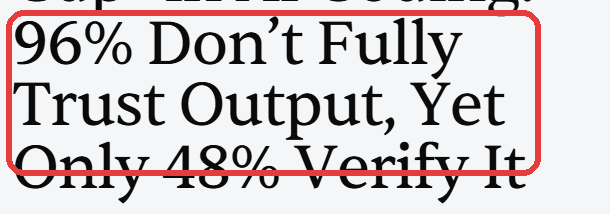
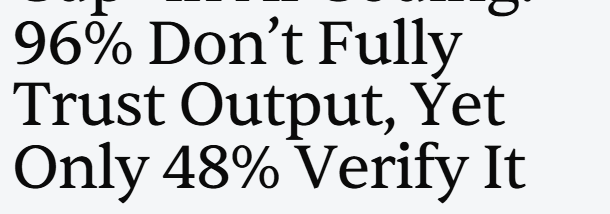
Shanghai keynote: drop Keynote label, animate patterns, challenges to appendix, uncircle Sonar
- Removes 'Keynote' from the title (talk format unconfirmed).
- The three patterns now reveal one per click, each with the green highlight as it lands.
- Moves the two challenge slides plus the ROI-reporting slide into an appendix and
  runs straight from the investing slides into Part 2; drops the now-redundant bridge.
- Removes the speaking-minute estimates from the section dividers.
- Un-circles the SonarSource clipping - the crop already isolates the 96%.

Claude-Session: https://claude.ai/code/session_015EiTevSf3fDLkzdeiZtdVP

Changed region(s): [[0.0, 0.028, 0.9033, 0.8411]]

diff --git a/2026/InnerSource Gathering Shanghai/slides/index.html b/2026/InnerSource Gathering Shanghai/slides/index.html
@@ -213,7 +213,7 @@
     <img class="brandchip" src="assets/img/isc-logo.png" alt="InnerSource Commons">
     <div class="title-wrap">
       <div class="title-main">
-        <div class="eyebrow">InnerSource Gathering Shanghai 2026 &middot; Keynote</div>
+        <div class="eyebrow">InnerSource Gathering Shanghai 2026</div>
         <h1>InnerSource in the <span class="accent">AI Era</span></h1>
         <p style="font-size:1.2em;color:var(--ink-2);margin-top:26px;font-weight:600;">A global update. And what comes next.</p>
         <div class="byline">
@@ -282,7 +282,7 @@ Here's where we're headed today, in two halves. First, a global update on where 
     <div class="divider">
       <div class="num">PART 1</div>
       <h1>The global update</h1>
-      <div class="meta">Executive Director's vantage &middot; ~6 minutes</div>
+      <div class="meta">Executive Director's vantage</div>
     </div>
     <aside class="notes">
 Let's start with where the movement stands.
@@ -393,15 +393,15 @@ Formal programs or program offices now exist at about a third of organizations, 
             <div><h3>Consolidation</h3><p style="font-size:0.8em;">Funded alongside a partner function - OSPO, DevEx, platform. Fund through a partner; keep the mandate <b>company-wide</b>.</p></div>
           </div>
         </div>
-        <div class="card">
+        <div class="card accent-edge fragment fade-in">
           <div style="display:grid;grid-template-columns:60px 1fr;gap:26px;align-items:center;">
-            <div style="font-size:1.7em;font-weight:900;color:var(--ink-3);">2</div>
+            <div style="font-size:1.7em;font-weight:900;color:var(--accent);">2</div>
             <div><h3>Scaffolding beats enthusiasm</h3><p style="font-size:0.8em;">Tooling, guidelines, governance - plus <b>manager, HR, and career-ladder support</b>, so contributing counts toward the job.</p></div>
           </div>
         </div>
-        <div class="card">
+        <div class="card accent-edge fragment fade-in">
           <div style="display:grid;grid-template-columns:60px 1fr;gap:26px;align-items:center;">
-            <div style="font-size:1.7em;font-weight:900;color:var(--ink-3);">3</div>
+            <div style="font-size:1.7em;font-weight:900;color:var(--accent);">3</div>
             <div><h3>The substrate for AI-native development</h3><p style="font-size:0.8em;">Shared prompts and context, internal AI tooling, code agents can find and reuse. <span class="accent">Hold onto this one.</span></p></div>
           </div>
         </div>
@@ -495,116 +495,6 @@ And the direction is toward getting back in the room together - the aim for 2027
     </aside>
   </section>
 
-  <!-- 12. CHALLENGE 1: TIME :: chart -->
-  <section>
-    <div class="stack">
-      <div class="kicker">Challenge 1 - the #1 blocker changed</div>
-      <h1 style="font-size:2.2em;margin-bottom:38px;">No longer culture. Now <span class="accent">time</span>.</h1>
-      <div class="grid wide-left" style="height:auto;">
-        <div class="barchart">
-          <div class="bar-row"><div class="cap">Time &amp; resources <span style="color:var(--accent);">now #1</span></div><div class="track"><div class="fill teal" style="width:84%;">84%</div></div></div>
-          <div class="bar-row"><div class="cap">Culture &amp; silos <span style="color:var(--ink-3);">was #1</span></div><div class="track"><div class="fill muted" style="width:74%;">74%</div></div></div>
-        </div>
-        <div class="tiles c3">
-          <div class="tile"><div class="v">22%</div><div class="l">give time to contribute</div></div>
-          <div class="tile"><div class="v">15%</div><div class="l">reward it</div></div>
-          <div class="tile"><div class="v">14%</div><div class="l">count it for promotion</div></div>
-        </div>
-      </div>
-      <p class="sub" style="margin-top:32px;font-size:1.0em;font-weight:600;">People are convinced. They just have no room to act on it.</p>
-    </div>
-    <div class="cite">Source: <a class="clink" href="https://innersourcecommons.org/learn/research/state-of-innersource-survey-2025/" target="_blank" rel="noopener">State of InnerSource 2024 &amp; 2025</a> - InnerSource Commons.</div>
-    <div class="foot"><span class="dot"></span> Part 1</div>
-    <aside class="notes">
-Two challenges to prepare for. The first is a real shift: the number-one blocker is no longer culture - it's time. For the first time, "lack of time and resources," at eighty-four percent, overtook culture and silo thinking, at seventy-four, as the top perceived blocker.
-
-And the supporting numbers are stark: only about twenty-two percent of organizations give employees time to contribute, about fifteen percent reward it, and about fourteen percent factor it into promotion. People are convinced. They just have no room to act on it.
-    </aside>
-  </section>
-
-  <!-- 13. CHALLENGE 2: ROI :: stats -->
-  <section>
-    <div class="grid wide-right">
-      <div class="stack">
-        <div class="kicker">Challenge 2 - ROI</div>
-        <p class="lede">The value is obvious. The <em>investment</em> isn't.</p>
-        <p class="sub" style="margin-top:22px;max-width:22ch;">Because it's hard to measure.</p>
-      </div>
-      <div class="stack">
-        <div class="tiles c2" style="margin-bottom:24px;">
-          <div class="tile"><div class="v red">under 50%</div><div class="l">of orgs measure InnerSource at all</div></div>
-          <div class="tile"><div class="v red">~1 in 7</div><div class="l">programs were ramping down last year</div></div>
-        </div>
-        <div class="card accent-edge">
-          <div class="n">The community is building the answer</div>
-          <p style="font-size:0.82em;color:var(--ink);"><b>de Silva &amp; Izquierdo</b> - <em>Measuring InnerSource Value</em> (MSR 2025). The ROI reference this challenge has been missing.</p>
-        </div>
-      </div>
-    </div>
-    <div class="cite">Source: <a class="clink" href="https://innersourcecommons.org/learn/research/state-of-innersource-survey-2025/" target="_blank" rel="noopener">State of InnerSource 2025</a> - InnerSource Commons; de Silva &amp; Izquierdo, <a class="clink" href="https://2025.msrconf.org/details/msr-2025-industry-track/2/Measuring-InnerSource-Value" target="_blank" rel="noopener">Measuring InnerSource Value</a> (MSR 2025).</div>
-    <div class="foot"><span class="dot"></span> Part 1</div>
-    <aside class="notes">
-The second challenge: the value is obvious, but the investment isn't - largely because it's hard to measure. Under fifty percent of organizations measure InnerSource at all, and the methods that exist are immature. Without a credible ROI story, programs stall - roughly one in seven were ramping down last year.
-
-And the community is building the answer: de Silva and Izquierdo have put real rigor into quantifying the business impact of InnerSource. If you need the ROI reference this challenge has been missing, that's it.
-    </aside>
-  </section>
-
-  <!-- 14. ROI - DIFFERENT BOXES :: diagram -->
-  <section>
-    <div class="stack">
-      <div class="kicker">Why the numbers hide it</div>
-      <h1 style="font-size:1.9em;max-width:24ch;margin-bottom:34px;">The cost and the payoff land in <span class="accent">different boxes</span>.</h1>
-      <div class="split">
-        <div class="sbox">
-          <div class="st">Different time period</div>
-          <h3>Invest now. Reap all year.</h3>
-          <div class="timeline">
-            <div class="q inv">Q1<br>invest</div>
-            <div class="q ret">Q2</div>
-            <div class="q ret">Q3</div>
-            <div class="q ret">Q4</div>
-          </div>
-          <p>You pay this quarter; the return dribbles in across the next year.</p>
-        </div>
-        <div class="sbox">
-          <div class="st">Different team</div>
-          <h3>You invest. Others reap.</h3>
-          <div class="flowrow">
-            <div class="tm pay">Your team<br>pays</div>
-            <div class="ar">&rarr;</div>
-            <div class="tm gain">Other teams<br>benefit</div>
-          </div>
-          <p>The team doing the work often isn't the one that gets the payoff.</p>
-        </div>
-      </div>
-      <div class="punch">Measured quarter-by-quarter, team-by-team, InnerSource never pencils out. So <b>reward and recognize contribution beyond the quarter, and beyond the team.</b></div>
-    </div>
-    <div class="cite">Source: Executive Director observation; supporting reward/recognition data in <a class="clink" href="https://innersourcecommons.org/learn/research/state-of-innersource-survey-2025/" target="_blank" rel="noopener">State of InnerSource 2025</a>.</div>
-    <div class="foot"><span class="dot"></span> Part 1</div>
-    <aside class="notes">
-And there's a deeper reason the investment lags - the way most organizations measure. The investment and the return live in different boxes.
-
-In time: you invest in InnerSource this quarter, but the return dribbles in across the whole next year. And in scope: the team that does the investing often isn't the team that reaps the benefit - another team does.
-
-Now, most places measure quarter by quarter, team by team. So as each team optimizes its own quarter, InnerSource can never quite make sense - the cost is yours, this quarter; the payoff is someone else's, later. The fix is to reward and recognize InnerSource contribution outside that traditional scope - beyond the quarter, and beyond the team.
-    </aside>
-  </section>
-
-  <!-- 15. BRIDGE :: compass -->
-  <section>
-    <div class="bg" style="background-image:url(assets/img/compass.jpg)"></div>
-    <div class="scrim center"></div>
-    <div class="stack" style="align-items:center;text-align:center;">
-      <h1 style="font-size:2.4em;max-width:18ch;text-align:center;">The patterns. The investments. The challenges.</h1>
-      <p style="font-size:1.3em;color:var(--ink-2);margin-top:34px;max-width:26ch;font-weight:600;">All now run into one question the whole community asks at once.</p>
-      <p style="font-size:1.9em;color:var(--accent);font-weight:900;margin-top:30px;">What does AI do to all of it?</p>
-    </div>
-    <aside class="notes">
-Every one of these - the patterns, the investments, the challenges - now runs into a single question the whole community is asking at once: what does AI do to all of it? That's the second half.
-    </aside>
-  </section>
-
   <!-- 16. PART 2 DIVIDER :: ai-abstract -->
   <section>
     <div class="bg" style="background-image:url(assets/img/ai-abstract.jpg)"></div>
@@ -612,7 +502,7 @@ Every one of these - the patterns, the investments, the challenges - now runs in
     <div class="divider">
       <div class="num">PART 2</div>
       <h1>How AI is reshaping InnerSource</h1>
-      <div class="meta">What I'm seeing across the community &middot; ~6 minutes</div>
+      <div class="meta">What I'm seeing across the community</div>
     </div>
     <aside class="notes">
 Let's turn to the second half of what I promised - what I'm actually seeing, across the community, as AI meets InnerSource in practice.
@@ -873,6 +763,116 @@ If you take two things from today, take these. First: InnerSource isn't obsolete
 Where to go next: the InnerSource Commons site, and the 2026 Summit on November twelfth - follow-the-sun, and your region opens the global day. Scan the code, and I'd love to see you there.
 
 Thank you again - to Jerry Tan, and to the entire InnerSource China Community. It's an honor to be part of what you're building here. Enjoy the rest of the Gathering.
+    </aside>
+  </section>
+
+  <!-- A1. APPENDIX DIVIDER :: clock -->
+  <section>
+    <div class="bg" style="background-image:url(assets/img/clock.jpg)"></div>
+    <div class="scrim center"></div>
+    <div class="divider">
+      <div class="num">APPENDIX</div>
+      <h1>Challenges to prepare for</h1>
+      <div class="meta">Reference slides, if needed</div>
+    </div>
+    <aside class="notes">
+Reference slides on the two big challenges - time and resources, and ROI - available if the conversation calls for them.
+    </aside>
+  </section>
+
+  <!-- 12. CHALLENGE 1: TIME :: chart -->
+  <section>
+    <div class="stack">
+      <div class="kicker">Challenge 1 - the #1 blocker changed</div>
+      <h1 style="font-size:2.2em;margin-bottom:38px;">No longer culture. Now <span class="accent">time</span>.</h1>
+      <div class="grid wide-left" style="height:auto;">
+        <div class="barchart">
+          <div class="bar-row"><div class="cap">Time &amp; resources <span style="color:var(--accent);">now #1</span></div><div class="track"><div class="fill teal" style="width:84%;">84%</div></div></div>
+          <div class="bar-row"><div class="cap">Culture &amp; silos <span style="color:var(--ink-3);">was #1</span></div><div class="track"><div class="fill muted" style="width:74%;">74%</div></div></div>
+        </div>
+        <div class="tiles c3">
+          <div class="tile"><div class="v">22%</div><div class="l">give time to contribute</div></div>
+          <div class="tile"><div class="v">15%</div><div class="l">reward it</div></div>
+          <div class="tile"><div class="v">14%</div><div class="l">count it for promotion</div></div>
+        </div>
+      </div>
+      <p class="sub" style="margin-top:32px;font-size:1.0em;font-weight:600;">People are convinced. They just have no room to act on it.</p>
+    </div>
+    <div class="cite">Source: <a class="clink" href="https://innersourcecommons.org/learn/research/state-of-innersource-survey-2025/" target="_blank" rel="noopener">State of InnerSource 2024 &amp; 2025</a> - InnerSource Commons.</div>
+    <div class="foot"><span class="dot"></span> Part 1</div>
+    <aside class="notes">
+Two challenges to prepare for. The first is a real shift: the number-one blocker is no longer culture - it's time. For the first time, "lack of time and resources," at eighty-four percent, overtook culture and silo thinking, at seventy-four, as the top perceived blocker.
+
+And the supporting numbers are stark: only about twenty-two percent of organizations give employees time to contribute, about fifteen percent reward it, and about fourteen percent factor it into promotion. People are convinced. They just have no room to act on it.
+    </aside>
+  </section>
+
+  <!-- 13. CHALLENGE 2: ROI :: stats -->
+  <section>
+    <div class="grid wide-right">
+      <div class="stack">
+        <div class="kicker">Challenge 2 - ROI</div>
+        <p class="lede">The value is obvious. The <em>investment</em> isn't.</p>
+        <p class="sub" style="margin-top:22px;max-width:22ch;">Because it's hard to measure.</p>
+      </div>
+      <div class="stack">
+        <div class="tiles c2" style="margin-bottom:24px;">
+          <div class="tile"><div class="v red">under 50%</div><div class="l">of orgs measure InnerSource at all</div></div>
+          <div class="tile"><div class="v red">~1 in 7</div><div class="l">programs were ramping down last year</div></div>
+        </div>
+        <div class="card accent-edge">
+          <div class="n">The community is building the answer</div>
+          <p style="font-size:0.82em;color:var(--ink);"><b>de Silva &amp; Izquierdo</b> - <em>Measuring InnerSource Value</em> (MSR 2025). The ROI reference this challenge has been missing.</p>
+        </div>
+      </div>
+    </div>
+    <div class="cite">Source: <a class="clink" href="https://innersourcecommons.org/learn/research/state-of-innersource-survey-2025/" target="_blank" rel="noopener">State of InnerSource 2025</a> - InnerSource Commons; de Silva &amp; Izquierdo, <a class="clink" href="https://2025.msrconf.org/details/msr-2025-industry-track/2/Measuring-InnerSource-Value" target="_blank" rel="noopener">Measuring InnerSource Value</a> (MSR 2025).</div>
+    <div class="foot"><span class="dot"></span> Part 1</div>
+    <aside class="notes">
+The second challenge: the value is obvious, but the investment isn't - largely because it's hard to measure. Under fifty percent of organizations measure InnerSource at all, and the methods that exist are immature. Without a credible ROI story, programs stall - roughly one in seven were ramping down last year.
+
+And the community is building the answer: de Silva and Izquierdo have put real rigor into quantifying the business impact of InnerSource. If you need the ROI reference this challenge has been missing, that's it.
+    </aside>
+  </section>
+
+  <!-- 14. ROI - DIFFERENT BOXES :: diagram -->
+  <section>
+    <div class="stack">
+      <div class="kicker">Why the numbers hide it</div>
+      <h1 style="font-size:1.9em;max-width:24ch;margin-bottom:34px;">The cost and the payoff land in <span class="accent">different boxes</span>.</h1>
+      <div class="split">
+        <div class="sbox">
+          <div class="st">Different time period</div>
+          <h3>Invest now. Reap all year.</h3>
+          <div class="timeline">
+            <div class="q inv">Q1<br>invest</div>
+            <div class="q ret">Q2</div>
+            <div class="q ret">Q3</div>
+            <div class="q ret">Q4</div>
+          </div>
+          <p>You pay this quarter; the return dribbles in across the next year.</p>
+        </div>
+        <div class="sbox">
+          <div class="st">Different team</div>
+          <h3>You invest. Others reap.</h3>
+          <div class="flowrow">
+            <div class="tm pay">Your team<br>pays</div>
+            <div class="ar">&rarr;</div>
+            <div class="tm gain">Other teams<br>benefit</div>
+          </div>
+          <p>The team doing the work often isn't the one that gets the payoff.</p>
+        </div>
+      </div>
+      <div class="punch">Measured quarter-by-quarter, team-by-team, InnerSource never pencils out. So <b>reward and recognize contribution beyond the quarter, and beyond the team.</b></div>
+    </div>
+    <div class="cite">Source: Executive Director observation; supporting reward/recognition data in <a class="clink" href="https://innersourcecommons.org/learn/research/state-of-innersource-survey-2025/" target="_blank" rel="noopener">State of InnerSource 2025</a>.</div>
+    <div class="foot"><span class="dot"></span> Part 1</div>
+    <aside class="notes">
+And there's a deeper reason the investment lags - the way most organizations measure. The investment and the return live in different boxes.
+
+In time: you invest in InnerSource this quarter, but the return dribbles in across the whole next year. And in scope: the team that does the investing often isn't the team that reaps the benefit - another team does.
+
+Now, most places measure quarter by quarter, team by team. So as each team optimizes its own quarter, InnerSource can never quite make sense - the cost is yours, this quarter; the payoff is someone else's, later. The fix is to reward and recognize InnerSource contribution outside that traditional scope - beyond the quarter, and beyond the team.
     </aside>
   </section>
 
